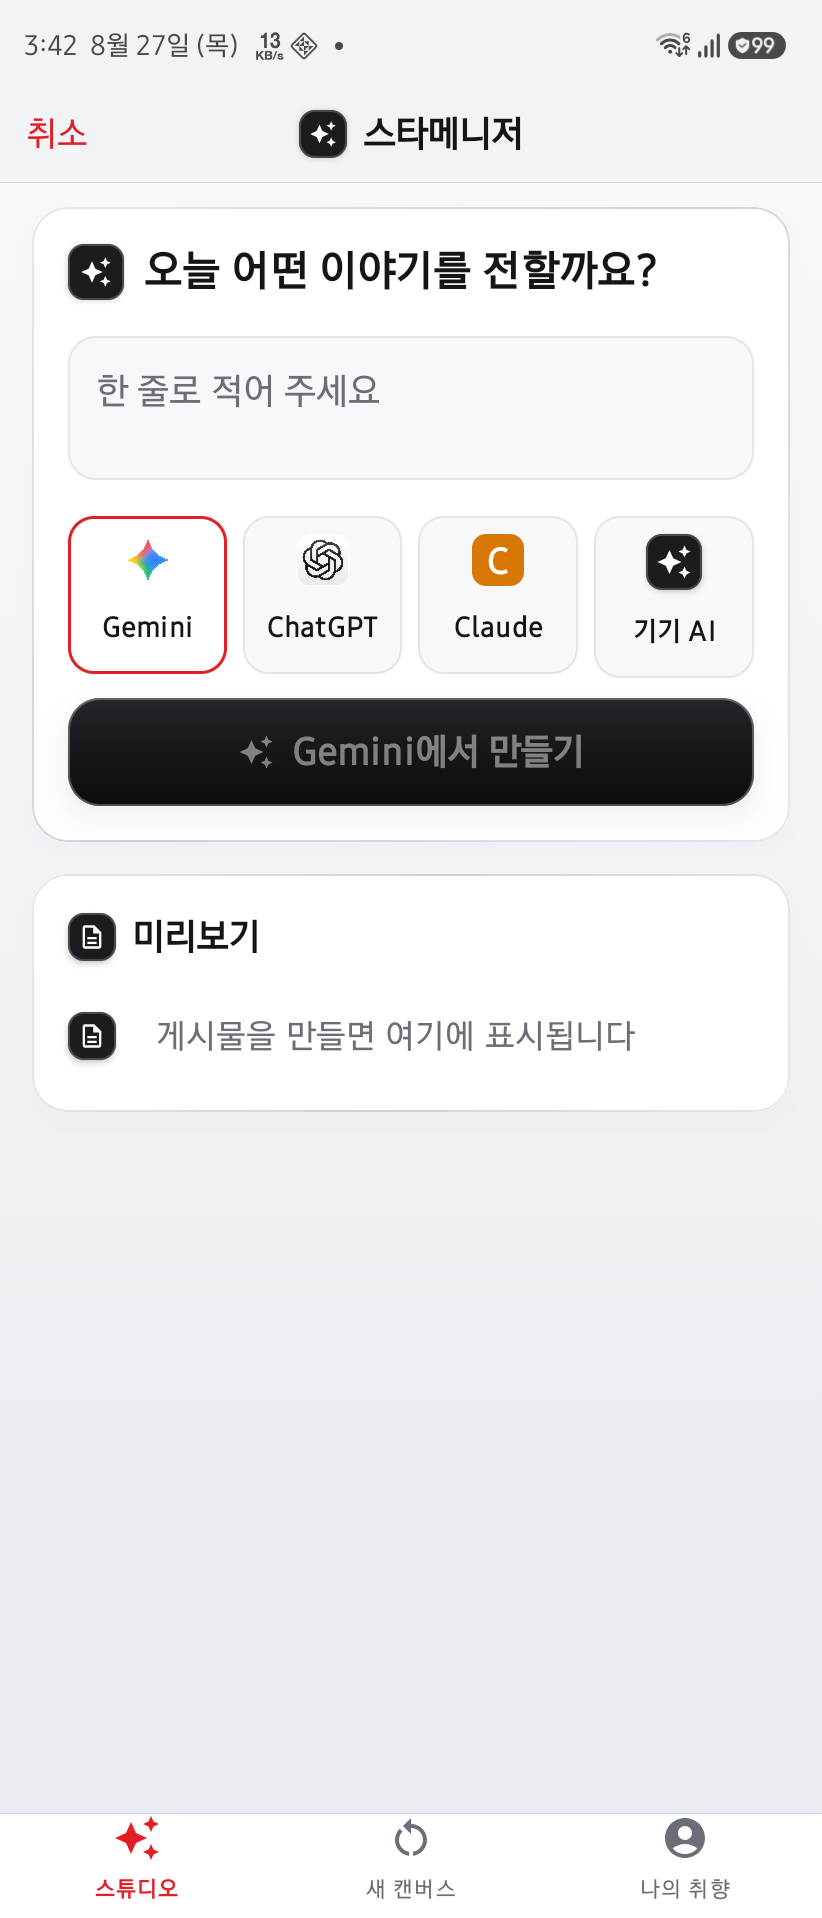
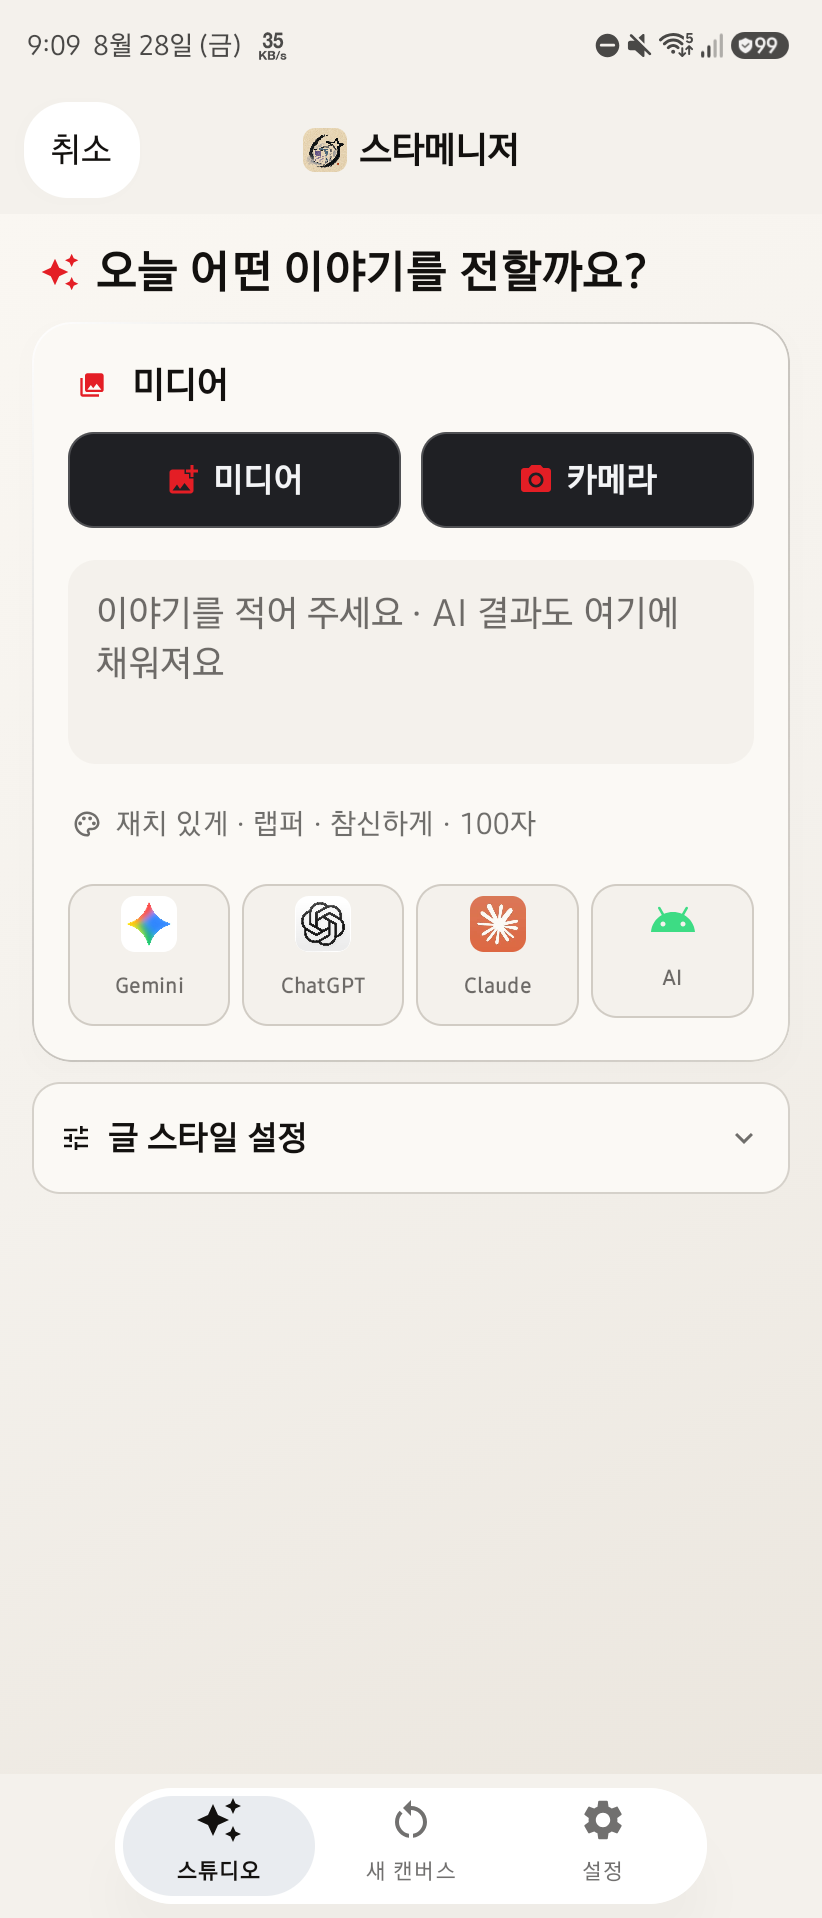
release: publish StarManager 2.3.0

diff --git a/app/data.ts b/app/data.ts
@@ -781,35 +781,35 @@ export const apps: AppData[] = [
     english: "StarManager",
     eyebrow: "YOUR STORY, READY TO SHARE",
     tagline: "오늘의 이야기를, 내 목소리로 완성합니다.",
-    summary: "전하고 싶은 이야기를 한 줄로 적고 원하는 결과를 고르면, ChatGPT·Gemini·Claude 또는 기기 AI가 내 목소리에 맞는 게시물 초안을 완성합니다. 결과를 안정적으로 가져와 사진·영상과 함께 Instagram 등 원하는 앱으로 바로 이어가는 iPhone·iPad·Android 앱입니다.",
+    summary: "사진만, 사진과 글, 글만으로 시작하면 Gemini·ChatGPT·Claude 또는 기기 AI가 내 목소리에 맞는 게시물 초안을 완성합니다. 미디어를 먼저 보며 한 화면에서 쓰고 다듬은 뒤 Instagram 등 원하는 앱으로 바로 이어가는 iPhone·iPad·Android 앱입니다.",
     theme: "violet",
     icon: "/apps/starmanager/icon.png",
     artwork: "phones",
     platforms: [
-      { name: "iPhone · iPad", status: "TestFlight", detail: "2.2.0 · 빌드 202608280732 · iOS·iPadOS 18+", availabilityNote: "2.2.0 Public Beta 심사 대기 · 공개 링크에서는 승인된 이전 빌드 테스트 가능" },
+      { name: "iPhone · iPad", status: "TestFlight", detail: "2.3.0 · 빌드 202608282124 · iOS·iPadOS 18+", availabilityNote: "2.3.0 Public Beta 심사 대기 · 공개 링크에서는 승인된 이전 빌드 테스트 가능" },
       {
         name: "Android",
         status: "공개",
-        detail: "2.2.0 · 빌드 202608280732 · 내부 코드 344612 · Android 8.0+",
+        detail: "2.3.0 · 빌드 202608282124 · 내부 코드 345444 · Android 8.0+",
         url: releaseDownloadPath("StarManager-Android"),
         downloadLabel: "Android APK 바로 받기",
[2 lines of base64/hex data omitted]
         availabilityNote: "휴대전화·태블릿·Google TV 지원 · 기존 설치를 유지하는 업데이트 APK 공개",
       },
     ],
     features: [
-      { title: "한 줄에서 바로 시작", body: "내가 입력한 내용과 원하는 결과를 중심으로, 필요할 때만 추가 요청을 더하는 간결한 구조로 초안을 만듭니다." },
+      { title: "미디어부터 바로 시작", body: "사진이나 영상을 먼저 고르고 그 장면을 보며 글을 씁니다. 미디어 없이 글부터 시작하거나 사진만 AI에 맡겨도 됩니다." },
       { title: "화면을 가리지 않는 외부 AI", body: "ChatGPT·Gemini·Claude에 요청을 보낸 뒤에도 스튜디오 화면을 그대로 보며 전송 완료·대기 시간·오류 상태를 확인할 수 있습니다." },
       { title: "필요할 때만 브라우저 보기", body: "브라우저 보기는 기본적으로 꺼져 있습니다. 설정에서 켜면 생성 시작부터 공식 웹 화면을 볼 수 있고, 꺼져 있어도 로그인·보안 확인이 필요할 때는 자동으로 화면을 엽니다." },
       { title: "결과를 안정적으로 가져오기", body: "외부 AI의 완성된 답변을 감지해 스타메니저 초안으로 바로 가져옵니다. 결과를 받거나 화면을 스크롤하면 입력 키보드는 다시 입력창을 누를 때까지 숨깁니다." },
       { title: "원하는 AI를 바로 선택", body: "Gemini·ChatGPT·Claude·기기 AI를 한 줄에서 고르고 각 AI의 만들기 버튼으로 곧바로 실행합니다." },
-      { title: "간결해진 나의 취향", body: "프리셋과 기본 말투·이모지·글쓰기 취향만 남겨 자주 쓰는 설정을 빠르게 관리합니다. 외부 AI 로그인, 앱 업데이트, 테마 관리는 화면 아래에서 찾을 수 있습니다." },
+      { title: "접어 두는 글 스타일", body: "글자 수·이모지·분위기·스타일·말투·나잇대·줄넘김·내 글 반영은 필요할 때만 펼칩니다. 추가 요청은 같은 패널에서 직접 적습니다." },
       { title: "새 캔버스로 다시 시작", body: "하단의 새 캔버스로 현재 이야기와 결과, 미디어만 비우고 나의 취향과 프로필은 그대로 유지합니다." },
       { title: "미디어와 Instagram 공유", body: "사진·영상을 최대 8개까지 담고 순서를 정한 뒤, 문구 자동 복사와 공유 화면으로 Instagram 새 게시물 등 원하는 앱에 연결합니다. 카메라 사진은 사진 앱·갤러리에도 보관합니다." },
       { title: "취소와 붙여넣기 안내", body: "게시물 만들기에서 취소를 누르면 작성 중인 내용을 버릴지 확인할 수 있습니다. iPhone·iPad에서 붙여넣기가 막히면 설정 → 앱 → 스타메니저 → 다른 앱에서 붙여넣기를 허용으로 바꾸고, Android는 앱별 붙여넣기 권한을 따로 설정하지 않습니다." },
     ],
     guide: [
-      { title: "이야기 입력", body: "스튜디오에서 전하고 싶은 내용을 한 줄로 적고 원하는 결과를 고릅니다. 더 필요한 조건이 있을 때만 추가 요청을 적습니다." },
+      { title: "미디어와 이야기 입력", body: "사진·영상 또는 카메라로 미디어를 먼저 고르고 이야기를 적습니다. 사진만, 사진과 글, 글만 모두 가능합니다." },
       { title: "AI로 초안 만들기", body: "Gemini·ChatGPT·Claude·기기 AI 중 하나를 고른 뒤 해당 만들기 버튼을 누릅니다. 외부 AI는 화면 뒤에서 자동 입력·전송되며 진행 상태는 스튜디오에서 확인합니다." },
       { title: "결과 가져오기", body: "외부 AI의 답변이 완성되면 스타메니저가 결과를 가져와 미리보기에 표시합니다. 로그인하지 않았다면 나의 취향 아래쪽 외부 AI 로그인 관리에서 먼저 로그인합니다." },
       { title: "키보드 숨기기", body: "입력 뒤 화면을 위아래로 스크롤하면 키보드가 바로 숨겨집니다. 다시 입력하려면 입력창을 누릅니다." },
@@ -820,9 +820,9 @@ export const apps: AppData[] = [
     progress: [
       { state: "done", title: "iPhone·iPad 원본 분석", body: "실제로 도달 가능한 만들기·내 설정 화면과 상태·문구·동작을 소스 기준으로 정리" },
       { state: "done", title: "Android 구현과 실기기 검증", body: "휴대전화·태블릿 반응형 화면, 생성·검증·미디어·설정 흐름 구현과 테스트 완료" },
-      { state: "done", title: "Android 2.2.0 공개", body: "제품 2.2.0 · 빌드 202608280732 · 내부 코드 344612의 휴대전화·태블릿·Google TV 지원 APK를 GitHub Releases에 공개" },
-      { state: "done", title: "iPhone 2.2.0 실기기 설치", body: "대표 iPhone에 2.2.0 (202608280732)을 교체 설치하고 실행 확인" },
-      { state: "active", title: "iOS·iPadOS 2.2.0 Public Beta 심사", body: "build 202608280732를 Public Beta 그룹에 추가하고 테스터 알림과 Beta App Review를 제출했으며 기존 공개 테스트 링크는 유지" },
+      { state: "done", title: "Android 2.3.0 공개", body: "제품 2.3.0 · 빌드 202608282124 · 내부 코드 345444의 휴대전화·태블릿·Google TV 지원 APK를 GitHub Releases에 공개" },
+      { state: "done", title: "iPhone 2.3.0 실기기 설치", body: "대표 iPhone에 2.3.0 (202608282124)을 교체 설치하고 버전을 확인" },
+      { state: "active", title: "iOS·iPadOS 2.3.0 Public Beta 심사", body: "build 202608282124를 Public Beta 그룹에 추가하고 테스터 알림과 Beta App Review를 제출했으며 기존 공개 테스트 링크는 유지" },
       { state: "next", title: "게시 흐름 다듬기", body: "실제 공유 앱별 게시 결과와 사용자 피드백을 바탕으로 다음 개선 항목을 정리" },
     ],
     screenshots: [
@@ -831,6 +831,8 @@ export const apps: AppData[] = [
       { src: "/apps/starmanager/screens/android-result.png", alt: "스타매니저 Android 게시물 생성 결과" },
       { src: "/apps/starmanager/screens/android-settings.png", alt: "스타매니저 Android 내 설정 화면" },
       { src: "/apps/starmanager/screens/android-ai-login.png", alt: "스타매니저 Android 앱 안에서 연 ChatGPT 공식 로그인 화면" },
+      { src: "/apps/starmanager/screens/ios-style-settings.png", alt: "스타메니저 iPhone에서 펼친 글 스타일 설정" },
+      { src: "/apps/starmanager/screens/android-style-settings.png", alt: "스타메니저 Android에서 펼친 글 스타일 설정" },
     ],
     github: [
       "https://github.com/armsone/StarManager",
@@ -846,15 +848,15 @@ export const apps: AppData[] = [
     matchup: {
       metrics: [
         { value: "02", label: "도달 가능한 탭" },
-        { value: "04", label: "글쓰기 스타일" },
-        { value: "10", label: "미디어 최대 개수" },
+        { value: "06", label: "글쓰기 스타일" },
+        { value: "08", label: "미디어 최대 개수" },
       ],
       scope: [
         "만들기와 내 설정의 화면 구조·옵션·상태 흐름을 iOS 소스 기준으로 구현",
         "브랜드 색상과 AI 로고 원본, 프로필 마이그레이션과 글자 수 검증 규칙을 동일하게 적용",
         "휴대전화 세로 화면과 600dp 이상 태블릿의 2열 레이아웃을 각각 제공",
       ],
-      note: "소스와 결정적 테스트 기준 구현은 완료했습니다. 동일 조건의 최신 iOS 무손실 캡처가 없어 픽셀 단위 시각 패리티는 아직 검증하지 않았습니다.",
+      note: "최신 iPhone·Android 실기기 캡처로 접힌 첫 화면과 펼친 글 스타일 설정을 짝지어 확인했으며, 화면·상태·상호작용 증거 6개가 모두 검증을 통과했습니다.",
     },
   },
   {
@@ -990,7 +992,7 @@ export const apps: AppData[] = [
       {
         name: "StarManager · iOS · Android",
         status: "완료",
-        detail: "AIBI 0.1.1 · 양 플랫폼 이식·빌드·동기화 검증 완료",
+        detail: "AIBI 0.2.1 · 양 플랫폼 이식·빌드·동기화 검증 완료",
         url: "https://github.com/armsone/AIBI",
         downloadLabel: "AIBI 소스 보기",
         availabilityNote: "독립 다운로드가 아니라 StarManager 안에 포함되는 공개 공통 엔진",
@@ -1000,6 +1002,7 @@ export const apps: AppData[] = [
       { title: "내 계정은 공식 페이지에 그대로", body: "비밀번호·쿠키·토큰을 복사하거나 저장하지 않고 사용자가 각 AI 공식 웹사이트에서 직접 만든 로그인 세션만 브라우저 표준 저장소로 재사용합니다." },
       { title: "필요할 때만 나타나는 AI 브라우저", body: "평소에는 작성 화면을 유지하며 진행 상태를 보여주고, 로그인·보안 확인처럼 사용자가 직접 해야 하는 순간에만 같은 작업을 보이는 브라우저로 안전하게 넘깁니다." },
       { title: "완성된 답만 정확히 한 번", body: "입력과 실제 전송을 확인하고 스트리밍 결과가 안정될 때까지 관찰한 뒤, 호스트 앱의 검증을 통과한 최종 결과만 한 번 반영합니다." },
+      { title: "사진도 순서대로 함께", body: "사진만 또는 사진과 글을 함께 전달하고, 여러 사진은 선택 순서와 대표 항목을 유지해 제공자별 첨부 흐름으로 보냅니다." },
       { title: "기다림과 취소가 분명하게", body: "생성 뒤 1분 59초의 남은 시간과 감소하는 진행 막대를 보여주며, 숨김·보이기 화면 어디서든 취소하면 작업과 브라우저를 즉시 정리합니다." },
       { title: "제공자 변화는 어댑터에서만", body: "Gemini·ChatGPT·Claude의 화면 구조 변화는 제공자별 선택자와 회귀 자료에 격리해 공통 상태 기계와 앱 결과 흐름을 흔들지 않습니다." },
       { title: "앱별 수정은 덮어쓰지 않는 업데이트", body: "버전과 SHA-256 잠금으로 이식 파일을 관리합니다. 앱에서 따로 수정한 파일이 발견되면 자동 업데이트를 멈추고 충돌을 먼저 조정합니다." },
@@ -1011,7 +1014,8 @@ export const apps: AppData[] = [
       { title: "검증된 결과 받기", body: "생성이 끝나고 결과가 안정되면 StarManager의 문체와 길이 규칙을 확인해 본문에 반영하고 브라우저를 정리합니다." },
     ],
     progress: [
-      { state: "done", title: "독립 기준 프로젝트 0.1.1", body: "공통 계약, 제공자 변화 대응 절차, Apple·Android 참조 엔진과 StarManager 배포 스냅샷을 독립 기준 원본으로 구성" },
+      { state: "done", title: "독립 기준 프로젝트 0.2.1", body: "공통 계약, 제공자 변화 대응 절차, Apple·Android 참조 엔진과 StarManager 배포 스냅샷을 독립 기준 원본으로 구성" },
+      { state: "done", title: "다중 사진 파이프라인", body: "Apple·Android·브라우저 런타임에서 최대 8장의 이미지 순서와 첨부 확인을 같은 계약으로 검증" },
       { state: "done", title: "StarManager iOS 이식", body: "공유 WKWebView 세션, 숨김·보이기 실행, 로그인 판정, 결과 안정화, 1:59 제한과 취소 흐름을 빌드 검증" },
       { state: "done", title: "StarManager Android 이식", body: "공유 WebView 세션과 8개 관리 파일을 연결하고 단위 테스트·디버그 빌드 및 배포 체크섬 동기화 검증" },
       { state: "done", title: "충돌 방지 업데이트", body: "등록 앱 전체 사전 점검, SHA-256 잠금, 원자적 복사와 앱 로컬 수정 보호를 자동화" },

diff --git a/app/testflight.ts b/app/testflight.ts
@@ -15,7 +15,7 @@ export const testFlightBuilds: TestFlightBuild[] = [
   { slug: "hanclip", appName: "한클립", build: "202608251900", uploadedAt: "2026-08-25T19:09:02+09:00", inviteUrl: "https://testflight.apple.com/join/m2YsgUJW", publicBetaState: "approved" },
   { slug: "stand", appName: "S.tand", build: "342257", uploadedAt: "2026-08-26T16:31:06+09:00", inviteUrl: "https://testflight.apple.com/join/mGUYTjdp", publicBetaState: "approved" },
   { slug: "htoms-brief", appName: "HtOMS 브리프", build: "202608252204", uploadedAt: "2026-08-25T22:07:03+09:00", inviteUrl: null, publicBetaState: "internalOnly" },
-  { slug: "starmanager", appName: "스타메니저", build: "202608280732", uploadedAt: "2026-08-28T07:39+09:00", inviteUrl: "https://testflight.apple.com/join/nzmW4WxW", publicBetaState: "waitingForReview" },
+  { slug: "starmanager", appName: "스타메니저", build: "202608282124", uploadedAt: "2026-08-28T21:31+09:00", inviteUrl: "https://testflight.apple.com/join/nzmW4WxW", publicBetaState: "waitingForReview" },
   { slug: "button", appName: "버튼", build: "202608252204", uploadedAt: "2026-08-25T22:08:30+09:00", inviteUrl: "https://testflight.apple.com/join/RKcxgTkc", publicBetaState: "approved" },
   { slug: "whattoeat", appName: "오늘 뭐 먹지??", build: "202608271840", uploadedAt: "2026-08-27T19:01:32+09:00", inviteUrl: "https://testflight.apple.com/join/A444RsAc", publicBetaState: "approved" },
 ];

diff --git a/app/releases.ts b/app/releases.ts
@@ -114,8 +114,8 @@ export const RELEASE_DOWNLOADS: Record<DownloadKey, ReleaseDownload> = {
   "StarManager-Android": {
     label: "스타매니저 Android",
     repo: "StarManager-Android",
-    assetPattern: /^StarManager-Android-2\.2\.0\.apk$/i,
-    fallbackUrl: "https://github.com/armsone/StarManager-Android/releases/download/android-v2.2.0/StarManager-Android-2.2.0.apk",
+    assetPattern: /^StarManager-Android-2\.3\.0\.apk$/i,
+    fallbackUrl: "https://github.com/armsone/StarManager-Android/releases/download/android-v2.3.0/StarManager-Android-2.3.0.apk",
   },
   "HtOMS-BK": {
     label: "HtOMS Brief Android",
